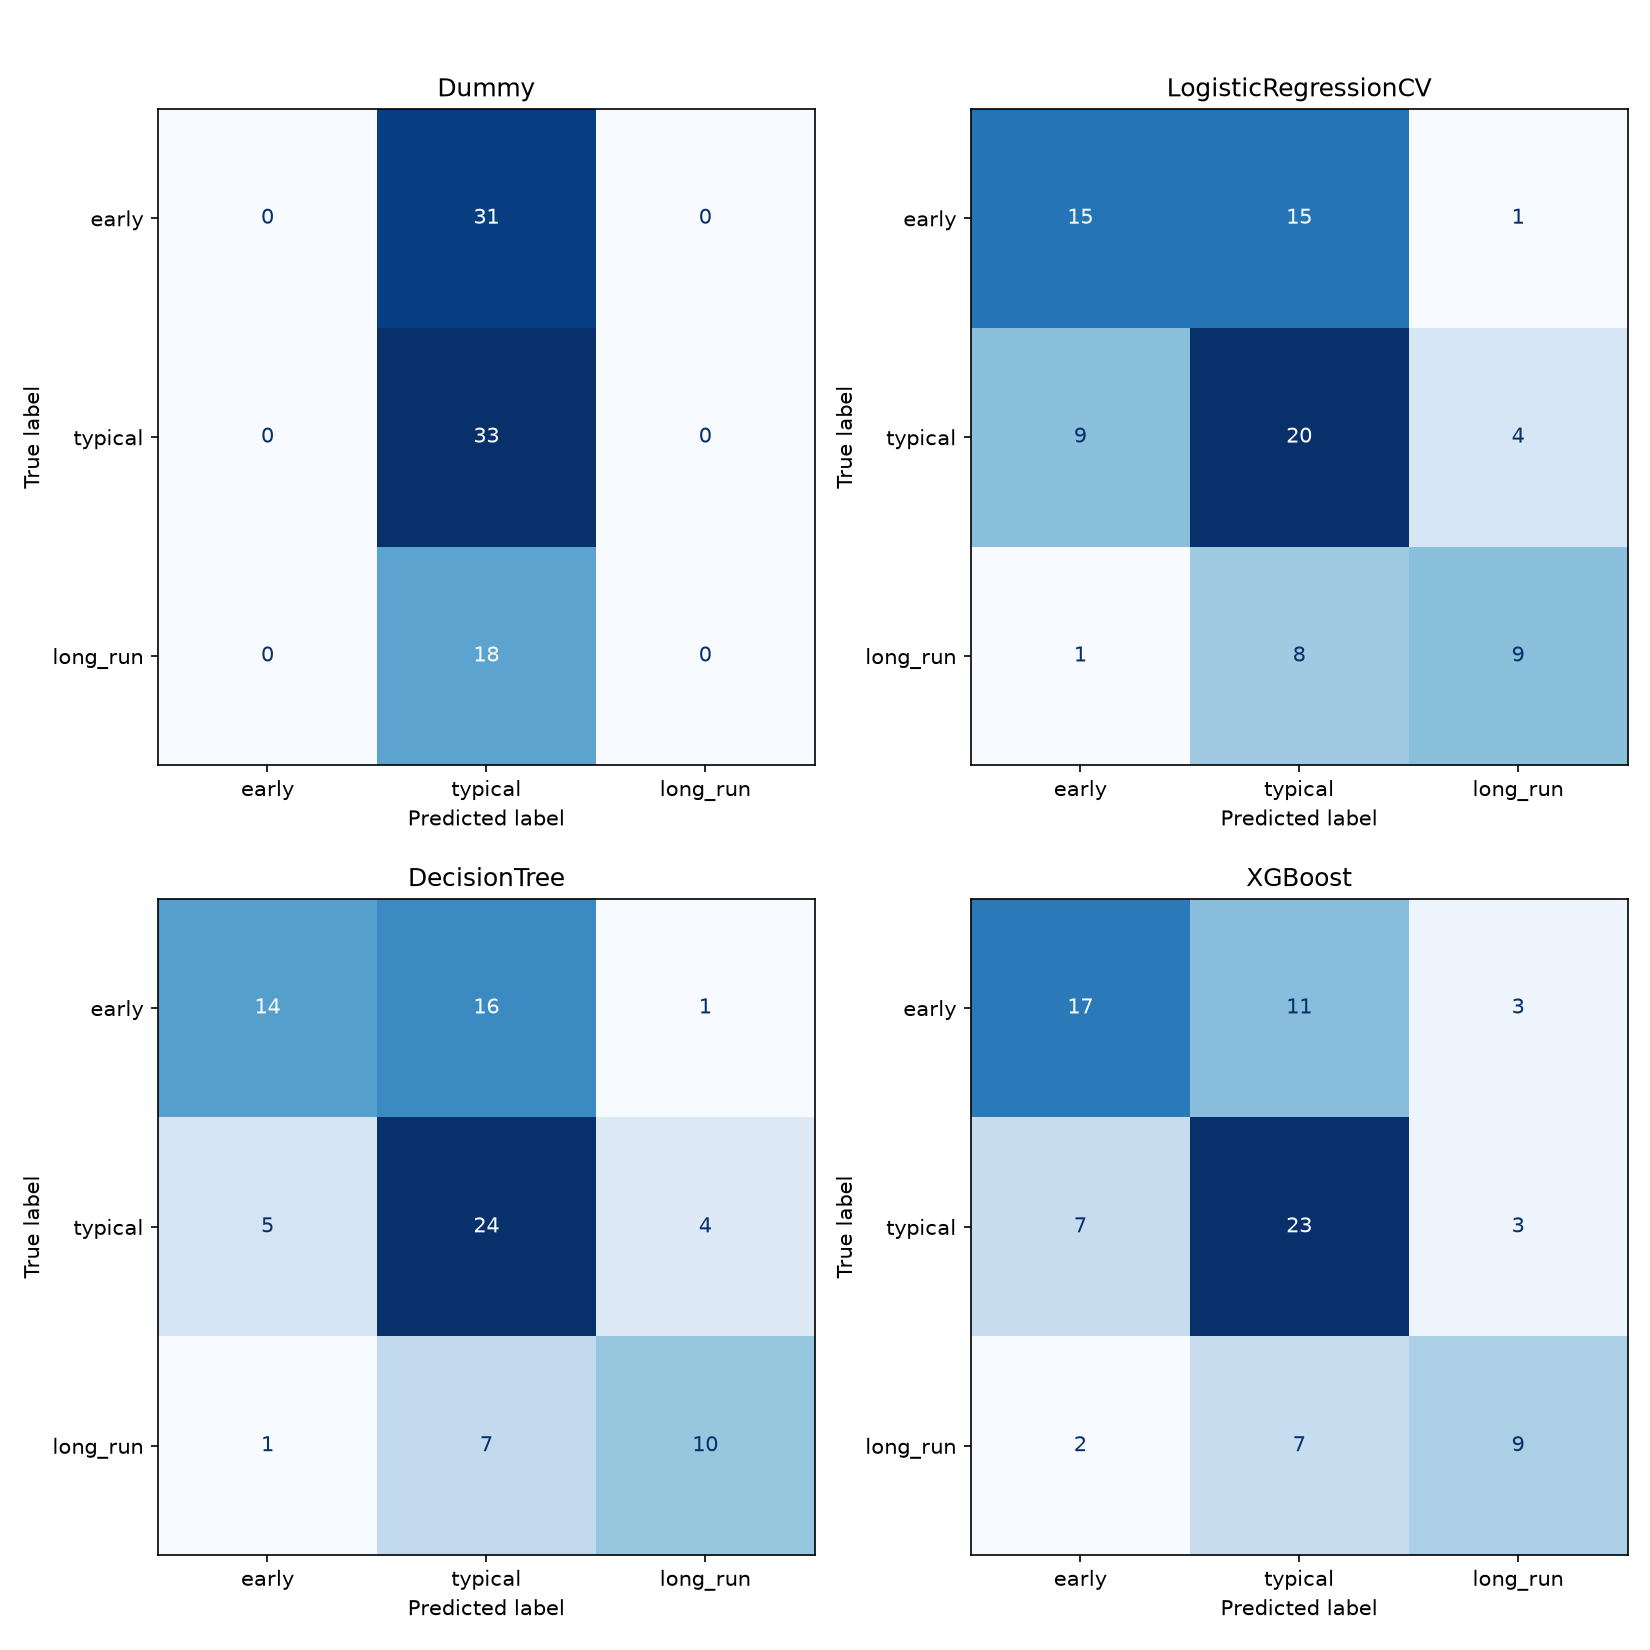
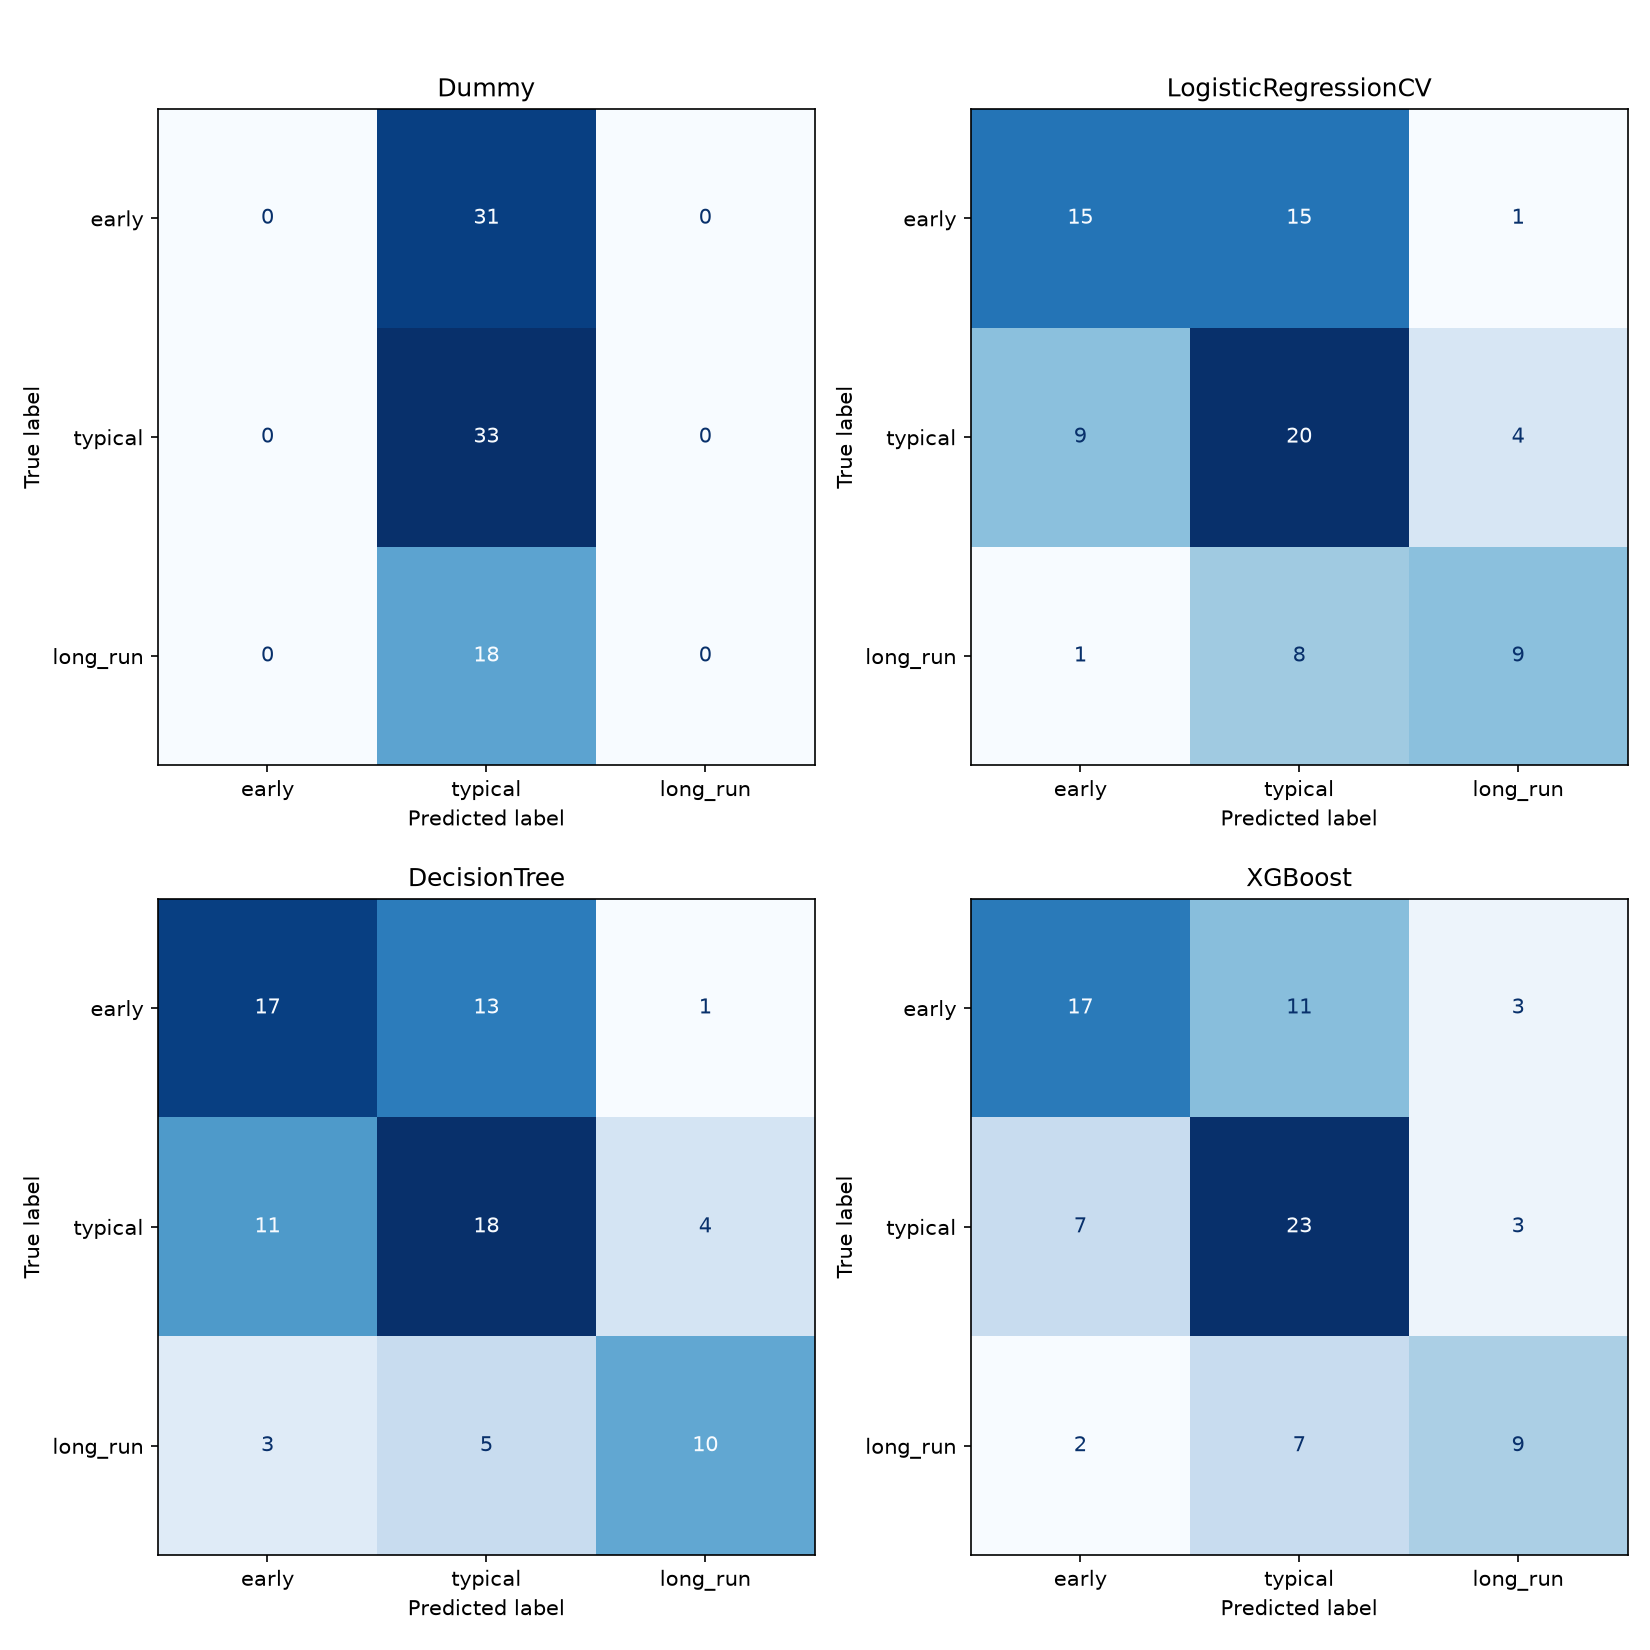
Apply final review polish: use StratifiedKFold for classifier depth CV, document duration_class integer encoding

Changed region(s): [[0.0927, 0.5255, 0.2473, 0.8345], [0.34, 0.8036, 0.4945, 0.9582]]

diff --git a/classification_ladder.py b/classification_ladder.py
@@ -22,7 +22,7 @@ from sklearn.metrics import (
     recall_score,
     roc_auc_score,
 )
-from sklearn.model_selection import KFold, RandomizedSearchCV, validation_curve
+from sklearn.model_selection import RandomizedSearchCV, StratifiedKFold, validation_curve
 from sklearn.tree import DecisionTreeClassifier
 from xgboost import XGBClassifier
 
@@ -50,7 +50,7 @@ def find_best_tree_depth(X_train, y_train):
         build_pipeline(DecisionTreeClassifier(random_state=RANDOM_STATE)),
         X_train, y_train,
         param_name="model__max_depth", param_range=depths,
-        cv=KFold(5, shuffle=True, random_state=RANDOM_STATE), scoring="f1_macro",
+        cv=StratifiedKFold(5, shuffle=True, random_state=RANDOM_STATE), scoring="f1_macro",
     )
     train_mean, train_std = train_scores.mean(axis=1), train_scores.std(axis=1)
     cv_mean, cv_std = cv_scores.mean(axis=1), cv_scores.std(axis=1)

diff --git a/modeling_notes.md b/modeling_notes.md
@@ -39,6 +39,8 @@ DecisionTree reaches f1_macro=0.5850 (roc_auc_macro_ovr=0.7218), a notable impro
 
 LogisticRegressionCV reaches f1_macro=0.5415 (roc_auc_macro_ovr=0.6957), a notable improvement over baseline (+0.3502 f1, +0.1957 AUC). Train-test accuracy gap of 0.0781 indicates low-to-moderate overfitting.
 
+Internally, `duration_class` is encoded as integers (`early=0, typical=1, long_run=2`) for XGBoost compatibility, applied consistently across all four models — every metric and plot in this section is reported using the class names, not the codes.
+
 See `modeling_output/classification_confusion_matrices.png` and
 `modeling_output/classification_tree_validation_curve.png`.
 